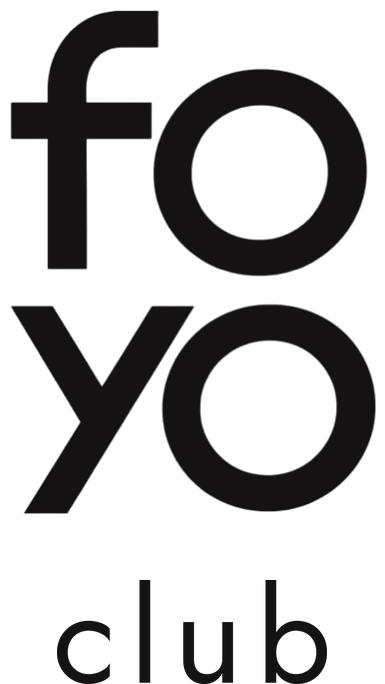
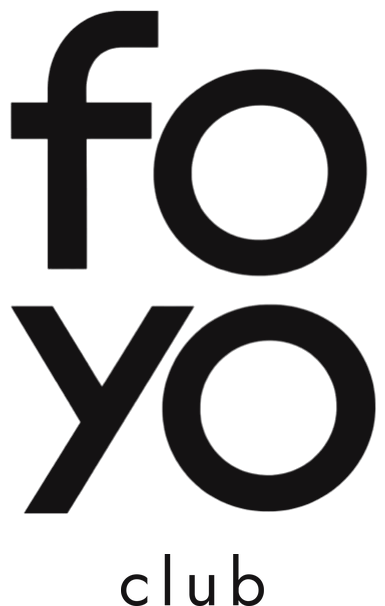
style(foyo): club half the size and closer under foyo (#257)
paul: club was too present. it is now half as wide, a little more open, and sits close
under foyo; in the watermark, the header, the admin and the whatsapp pictures.

Claude-Session: https://claude.ai/code/session_0118X2Tq8153gZMitsnuJiz6

diff --git a/somaflow/index.html b/somaflow/index.html
@@ -89,11 +89,11 @@
     <video id="clip" muted autoplay loop playsinline webkit-playsinline disablepictureinpicture disableremoteplayback preload="auto" poster="/poster.webp?v=4" aria-hidden="true">
       <source src="/flow.mp4?v=4" type="video/mp4" />
     </video>
-    <div class="mark"><img src="/foyo-club-ring-white.webp" alt="foyo club" width="800" height="800" /><span class="motto">forever young</span></div>
+    <div class="mark"><img src="/foyo-club-ring-white.webp?v=2" alt="foyo club" width="800" height="800" /><span class="motto">forever young</span></div>
     <p class="cue" aria-hidden="true"><span id="cue">tap or scroll</span><i></i></p>
   </section>
   <nav class="top" id="top">
-    <a class="home" href="#flow" aria-label="foyo club"><img src="/foyo-club-black.webp" alt="foyo club" width="385" height="684" /></a>
+    <a class="home" href="#flow" aria-label="foyo club"><img src="/foyo-club-black.webp?v=2" alt="foyo club" width="385" height="606" /></a>
     <div class="lsw" role="group" aria-label="language">
       <button class="lb" type="button" data-lang="en">en</button>
       <button class="lb" type="button" data-lang="de">de</button>

diff --git a/somaflow/admin/index.html b/somaflow/admin/index.html
@@ -36,7 +36,7 @@
   </style>
 </head>
 <body>
-  <nav><a href="/"><img src="/foyo-club-black.webp" alt="foyo club" width="385" height="684" /></a><span class="fine">anmeldungen</span></nav>
+  <nav><a href="/"><img src="/foyo-club-black.webp?v=2" alt="foyo club" width="385" height="606" /></a><span class="fine">anmeldungen</span></nav>
   <main>
     <form id="login" hidden>
       <p class="tag">foyo club · admin</p>
